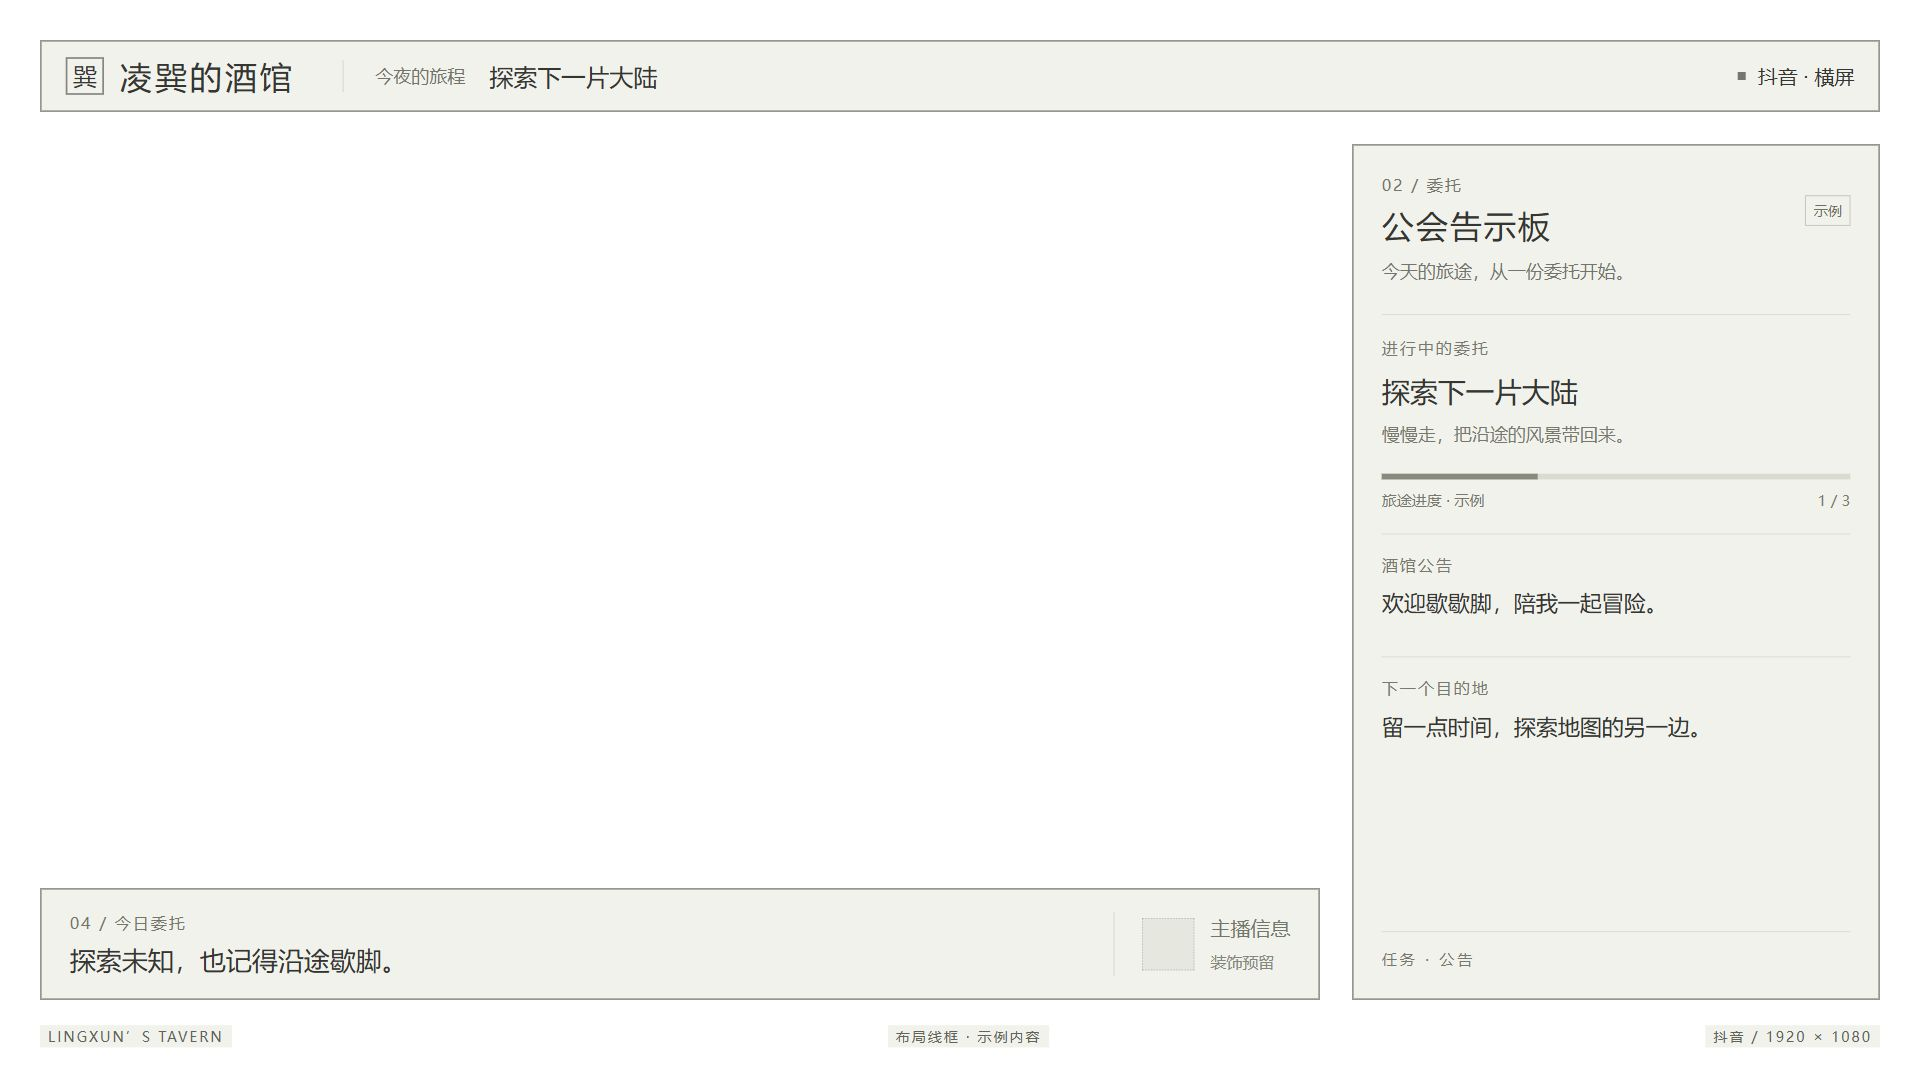
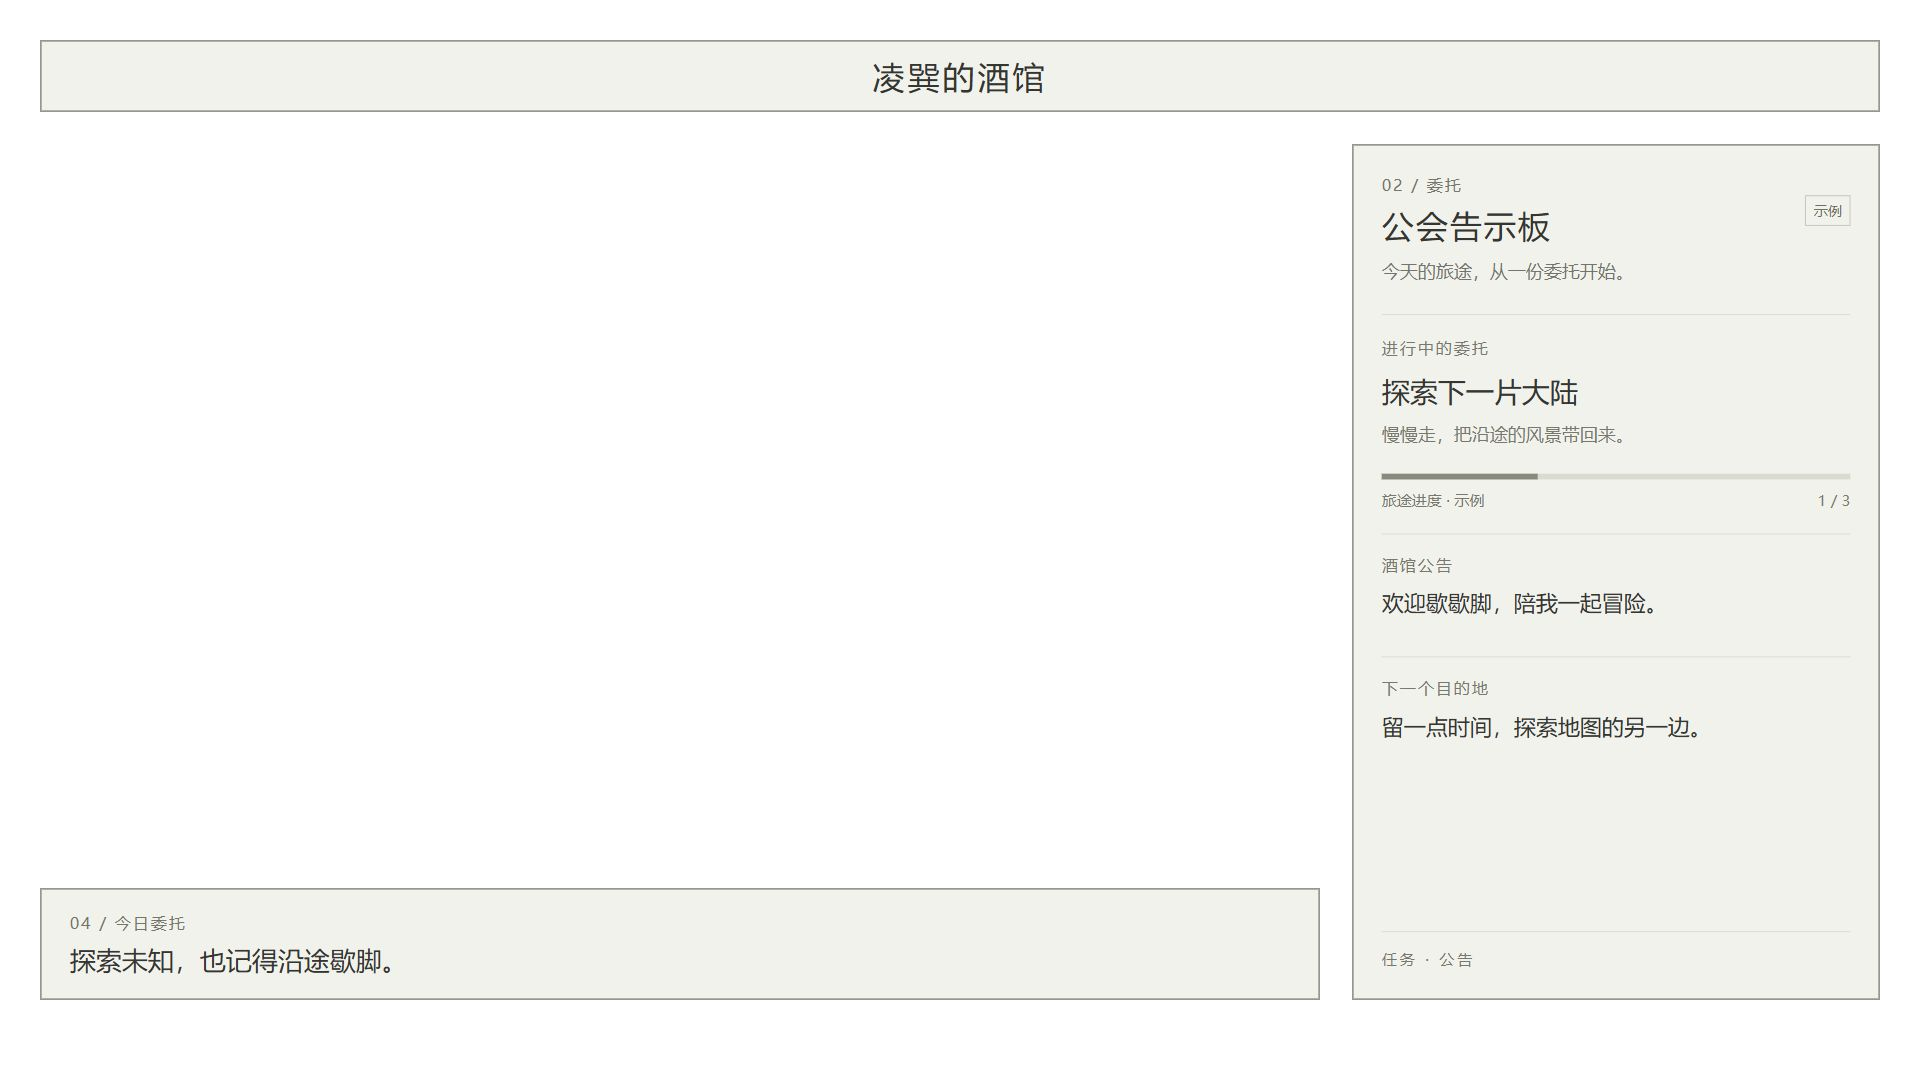
checkpoint/01-layout: simplify title and remove extra stream labels

diff --git a/src/styles.css b/src/styles.css
@@ -92,15 +92,8 @@ button, a, input { transition: background-color 140ms ease, color 140ms ease; }
 
 /* Always 1920 × 1080, regardless of the embedding viewport. */
 .overlay { position: relative; width: 1920px; height: 1080px; overflow: hidden; color: #353632; font-family: "Microsoft YaHei", "PingFang SC", sans-serif; --panel: #f2f2ed; --panel-line: #95978d; }
-.stream-header { position: absolute; left: 40px; top: 40px; width: 1840px; height: 72px; background: var(--panel); border: 2px solid var(--panel-line); display: flex; align-items: center; padding: 0 24px; gap: 48px; }
-.tavern-name { display: flex; gap: 16px; align-items: center; white-space: nowrap; }
-.tavern-mark { width: 38px; height: 38px; border: 2px solid #85877f; font-size: 24px; text-align: center; line-height: 34px; }
-.tavern-name strong { font-weight: 500; font-size: 32px; letter-spacing: 3px; }
-.stream-topic { display: flex; align-items: center; gap: 24px; border-left: 1px solid #bfc0b8; padding-left: 32px; }
-.stream-topic span { color: #73756c; font-size: 18px; }
-.stream-topic b { font-size: 24px; font-weight: 400; }
-.stream-platform { margin-left: auto; display: flex; gap: 12px; align-items: center; font-size: 20px; }
-.square-dot { width: 8px; height: 8px; background: #75776d; }
+.stream-header { position: absolute; left: 40px; top: 40px; width: 1840px; height: 72px; background: var(--panel); border: 2px solid var(--panel-line); display: flex; align-items: center; justify-content: center; padding: 0 24px; }
+.tavern-name { font-weight: 500; font-size: 32px; letter-spacing: 3px; white-space: nowrap; }
 .side-column { position: absolute; left: 1352px; top: 144px; width: 528px; height: 856px; display: grid; grid-template-rows: minmax(0, 576px) 256px; gap: 24px; }
 .side-column.without-lyrics { grid-template-rows: minmax(0, 1fr); }
 .side-board, .lyrics-board { background: var(--panel); border: 2px solid var(--panel-line); min-height: 0; overflow: hidden; }
@@ -135,11 +128,6 @@ button, a, input { transition: background-color 140ms ease, color 140ms ease; }
 .lyric-line.current { margin-top: 18px; font-size: 24px; color: #3f4338; }
 .stream-info { position: absolute; top: 888px; left: 40px; width: 1280px; height: 112px; background: var(--panel); border: 2px solid var(--panel-line); display: flex; align-items: center; justify-content: space-between; padding: 0 28px; }
 .today-quest h2 { font-size: 26px; font-weight: 400; margin-top: 10px; }
-.decoration-slot { display: flex; align-items: center; gap: 16px; padding-left: 28px; border-left: 1px solid #c4c6bb; font-size: 20px; line-height: 1.6; color: #73766a; }
-.decoration-slot small { font-size: 16px; color: #84877a; }
-.decoration-placeholder { width: 52px; height: 52px; border: 1px dashed #a5a899; background: #e6e7df; }
-.stream-footer { position: absolute; top: 1024px; left: 40px; width: 1840px; height: 24px; display: flex; justify-content: space-between; align-items: center; color: #606457; font-size: 14px; letter-spacing: 2px; }
-.stream-footer > span { background: #f2f2ed; padding: 2px 8px; }
 
 /* These helpers are siblings of Overlay; none exist in /live/* pages. */
 .game-guide { pointer-events: none; position: absolute; left: 40px; top: 144px; width: 1280px; height: 720px; display: grid; place-items: center; color: #787d6f; }

diff --git a/src/Overlay.tsx b/src/Overlay.tsx
@@ -70,19 +70,15 @@ export function Overlay({ platform, lyrics = true }: { platform: Platform; lyric
   return (
     <main className="overlay" data-platform={platform} data-lyrics={lyrics ? 'on' : 'off'} aria-label={`${platformNames[platform]}横屏直播装饰`}>
       <header className="stream-header">
-        <div className="tavern-name"><span className="tavern-mark" aria-hidden="true">巽</span><strong>凌巽的酒馆</strong></div>
-        <div className="stream-topic"><span>今夜的旅程</span><b>探索下一片大陆</b></div>
-        <div className="stream-platform"><span className="square-dot" />{platformNames[platform]} · 横屏</div>
+        <strong className="tavern-name">凌巽的酒馆</strong>
       </header>
       <aside className={`side-column ${lyrics ? '' : 'without-lyrics'}`}>
         {platform === 'bilibili' ? <BilibiliBoard lyrics={lyrics} /> : <DouyinBoard lyrics={lyrics} />}
         {lyrics && <Lyrics />}
       </aside>
-      <section className="stream-info" aria-label="今日委托与主播信息">
+      <section className="stream-info" aria-label="今日委托">
         <div className="today-quest"><span className="module-index">04 / 今日委托</span><h2>探索未知，也记得沿途歇脚。</h2></div>
-        <div className="decoration-slot"><span className="decoration-placeholder" aria-hidden="true" /><span>主播信息<br /><small>装饰预留</small></span></div>
       </section>
-      <footer className="stream-footer"><span>LINGXUN’S TAVERN</span><span>布局线框 · 示例内容</span><span>{platformNames[platform]} / 1920 × 1080</span></footer>
     </main>
   )
 }

diff --git a/PROJECT_SPEC.md b/PROJECT_SPEC.md
@@ -15,6 +15,8 @@
 - B 站未来接入弹幕、礼物、舰长、SC；抖音首版使用任务卡、公告，不接入非官方弹幕采集。
 - 网易云当前歌曲和同步歌词作为未来共享服务；歌词可全局或按平台显示/隐藏。
 - 歌词关闭时，右侧主要功能区扩展使用余下空间。
+- 标题栏只显示居中的“凌巽的酒馆”五个字，不显示独立图标、直播主题或平台信息。
+- 不设置底部英文署名/状态行，也不设置主播信息或头像预留区；游戏下方只保留今日委托。
 - 未来需有断线恢复；一端事件或连接失败不得重置另一端。
 - 抖音当前安装版本对本地网页素材的支持，以及双客户端捕获/编码/音频效果，须在后续集成阶段实测。
 
@@ -30,13 +32,12 @@
 
 | 区域 | x / y | 宽 × 高 | 说明 |
 | --- | --- | --- | --- |
-| 标题栏 | 40 / 40 | 1840 × 72 | 酒馆名、直播主题、平台 |
+| 标题栏 | 40 / 40 | 1840 × 72 | 仅居中显示“凌巽的酒馆” |
 | 游戏区 | 40 / 144 | 1280 × 720 | 精确 16:9；真实网页源此区域无任何内容或背景 |
 | 右侧栏 | 1352 / 144 | 528 × 856 | B 站留言板 / 抖音任务与公告 |
 | 右上主面板（歌词开） | 1352 / 144 | 528 × 576 | 示例内容用于检查排布 |
 | 歌词面板 | 1352 / 744 | 528 × 256 | 仅原创示例文字，不播放音乐 |
-| 今日委托与信息栏 | 40 / 888 | 1280 × 112 | 不覆盖游戏 |
-| 底部状态 | 40 / 1024 | 1840 × 24 | 平台标签及示例说明 |
+| 今日委托 | 40 / 888 | 1280 × 112 | 不覆盖游戏，不含主播信息占位 |
 
 游戏与侧栏之间留 32px，纵向模块间留 24px。外边距最少 32px。
 真实源固定 1920 × 1080，不随浏览器大小重排；验收画布只做整体等比缩放。

diff --git a/CHECKPOINTS.md b/CHECKPOINTS.md
@@ -8,7 +8,7 @@
 | 编号 | 范围 | 验收重点 | 状态 |
 | --- | --- | --- | --- |
 | CP0 | 项目基础与约定 | 本地启动、路由、需求文档、Git 快照、阶段边界 | 待验收 |
-| CP1 | 1920 × 1080 布局线框 | 游戏占比、16:9 透明区、右栏、标题/底栏、双平台、歌词开/关 | 待验收 |
+| CP1 | 1920 × 1080 布局线框 | 游戏占比、16:9 透明区、右栏、标题/委托栏、双平台、歌词开/关 | 待验收 |
 | CP2 | 像素酒馆视觉 | 配色、字体、边框、材质、克制装饰，不依赖角色稿件 | 未开始 |
 | CP3 | 右侧功能区细化 | B 站弹幕/礼物/舰长/SC 排布，抖音任务/公告，歌词与扩展状态 | 未开始 |
 | CP4 | 直播场景 | 开播等待、游戏、杂谈、暂离、下播，先用示例数据 | 未开始 |
@@ -20,7 +20,7 @@
 ## CP1 验收清单
 
 - [ ] 1280 × 720 游戏区是否足够大，左右比例是否合适。
-- [ ] 顶栏、今日委托、底栏是否需要调整。
+- [ ] 顶部纯酒馆名、今日委托的位置是否合适（已按反馈移除底部状态行与主播信息）。
 - [ ] 528px 右栏是否适合实际内容长度。
 - [ ] B 站/抖音两种排布都满意。
 - [ ] 歌词开启/关闭两种空间分配都满意。

diff --git a/README.md b/README.md
@@ -62,5 +62,6 @@ npm run preview
 `npm run preview` 用于检查构建产物，与开发服务使用相同端口，需先停止开发服务。
 依赖由 `package-lock.json` 锁定；运行不依赖外部字体或图片。
 
-下一步由用户验收游戏区占比、右侧宽度和标题/底栏位置。
+标题只显示“凌巽的酒馆”，不包含英文底部状态行或主播信息占位区。
+下一步由用户验收游戏区占比、右侧宽度和标题/委托栏位置。
 只有明确通过后，才进入 CP2 像素酒馆美术。
